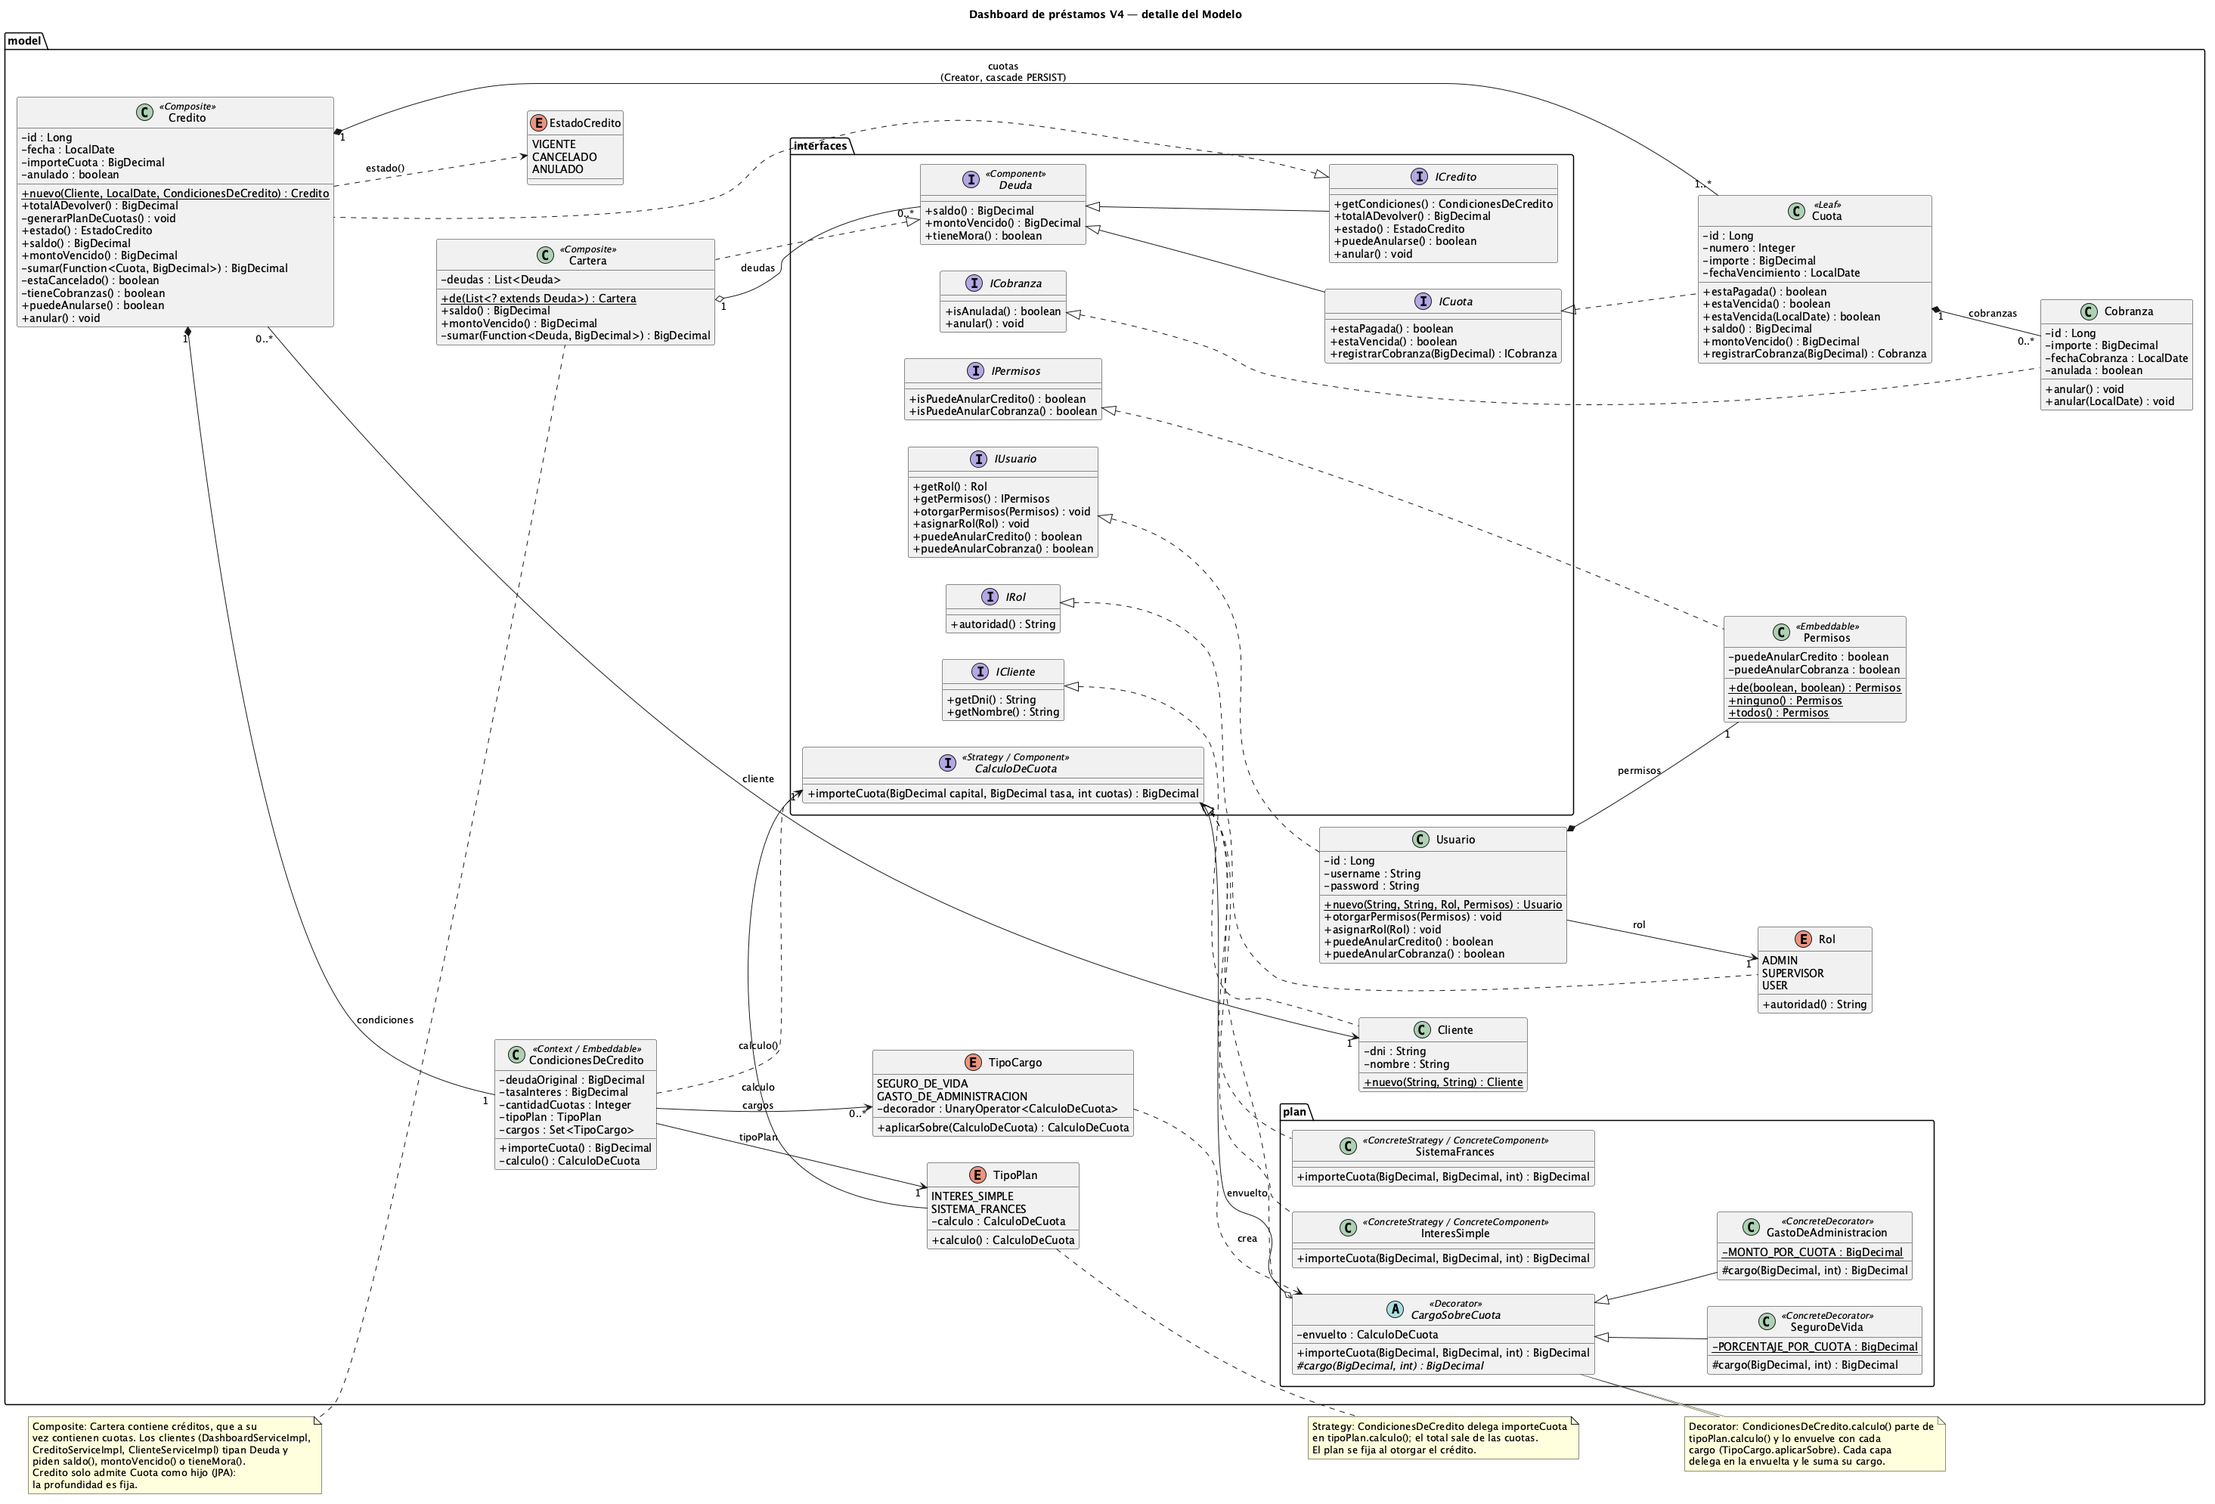
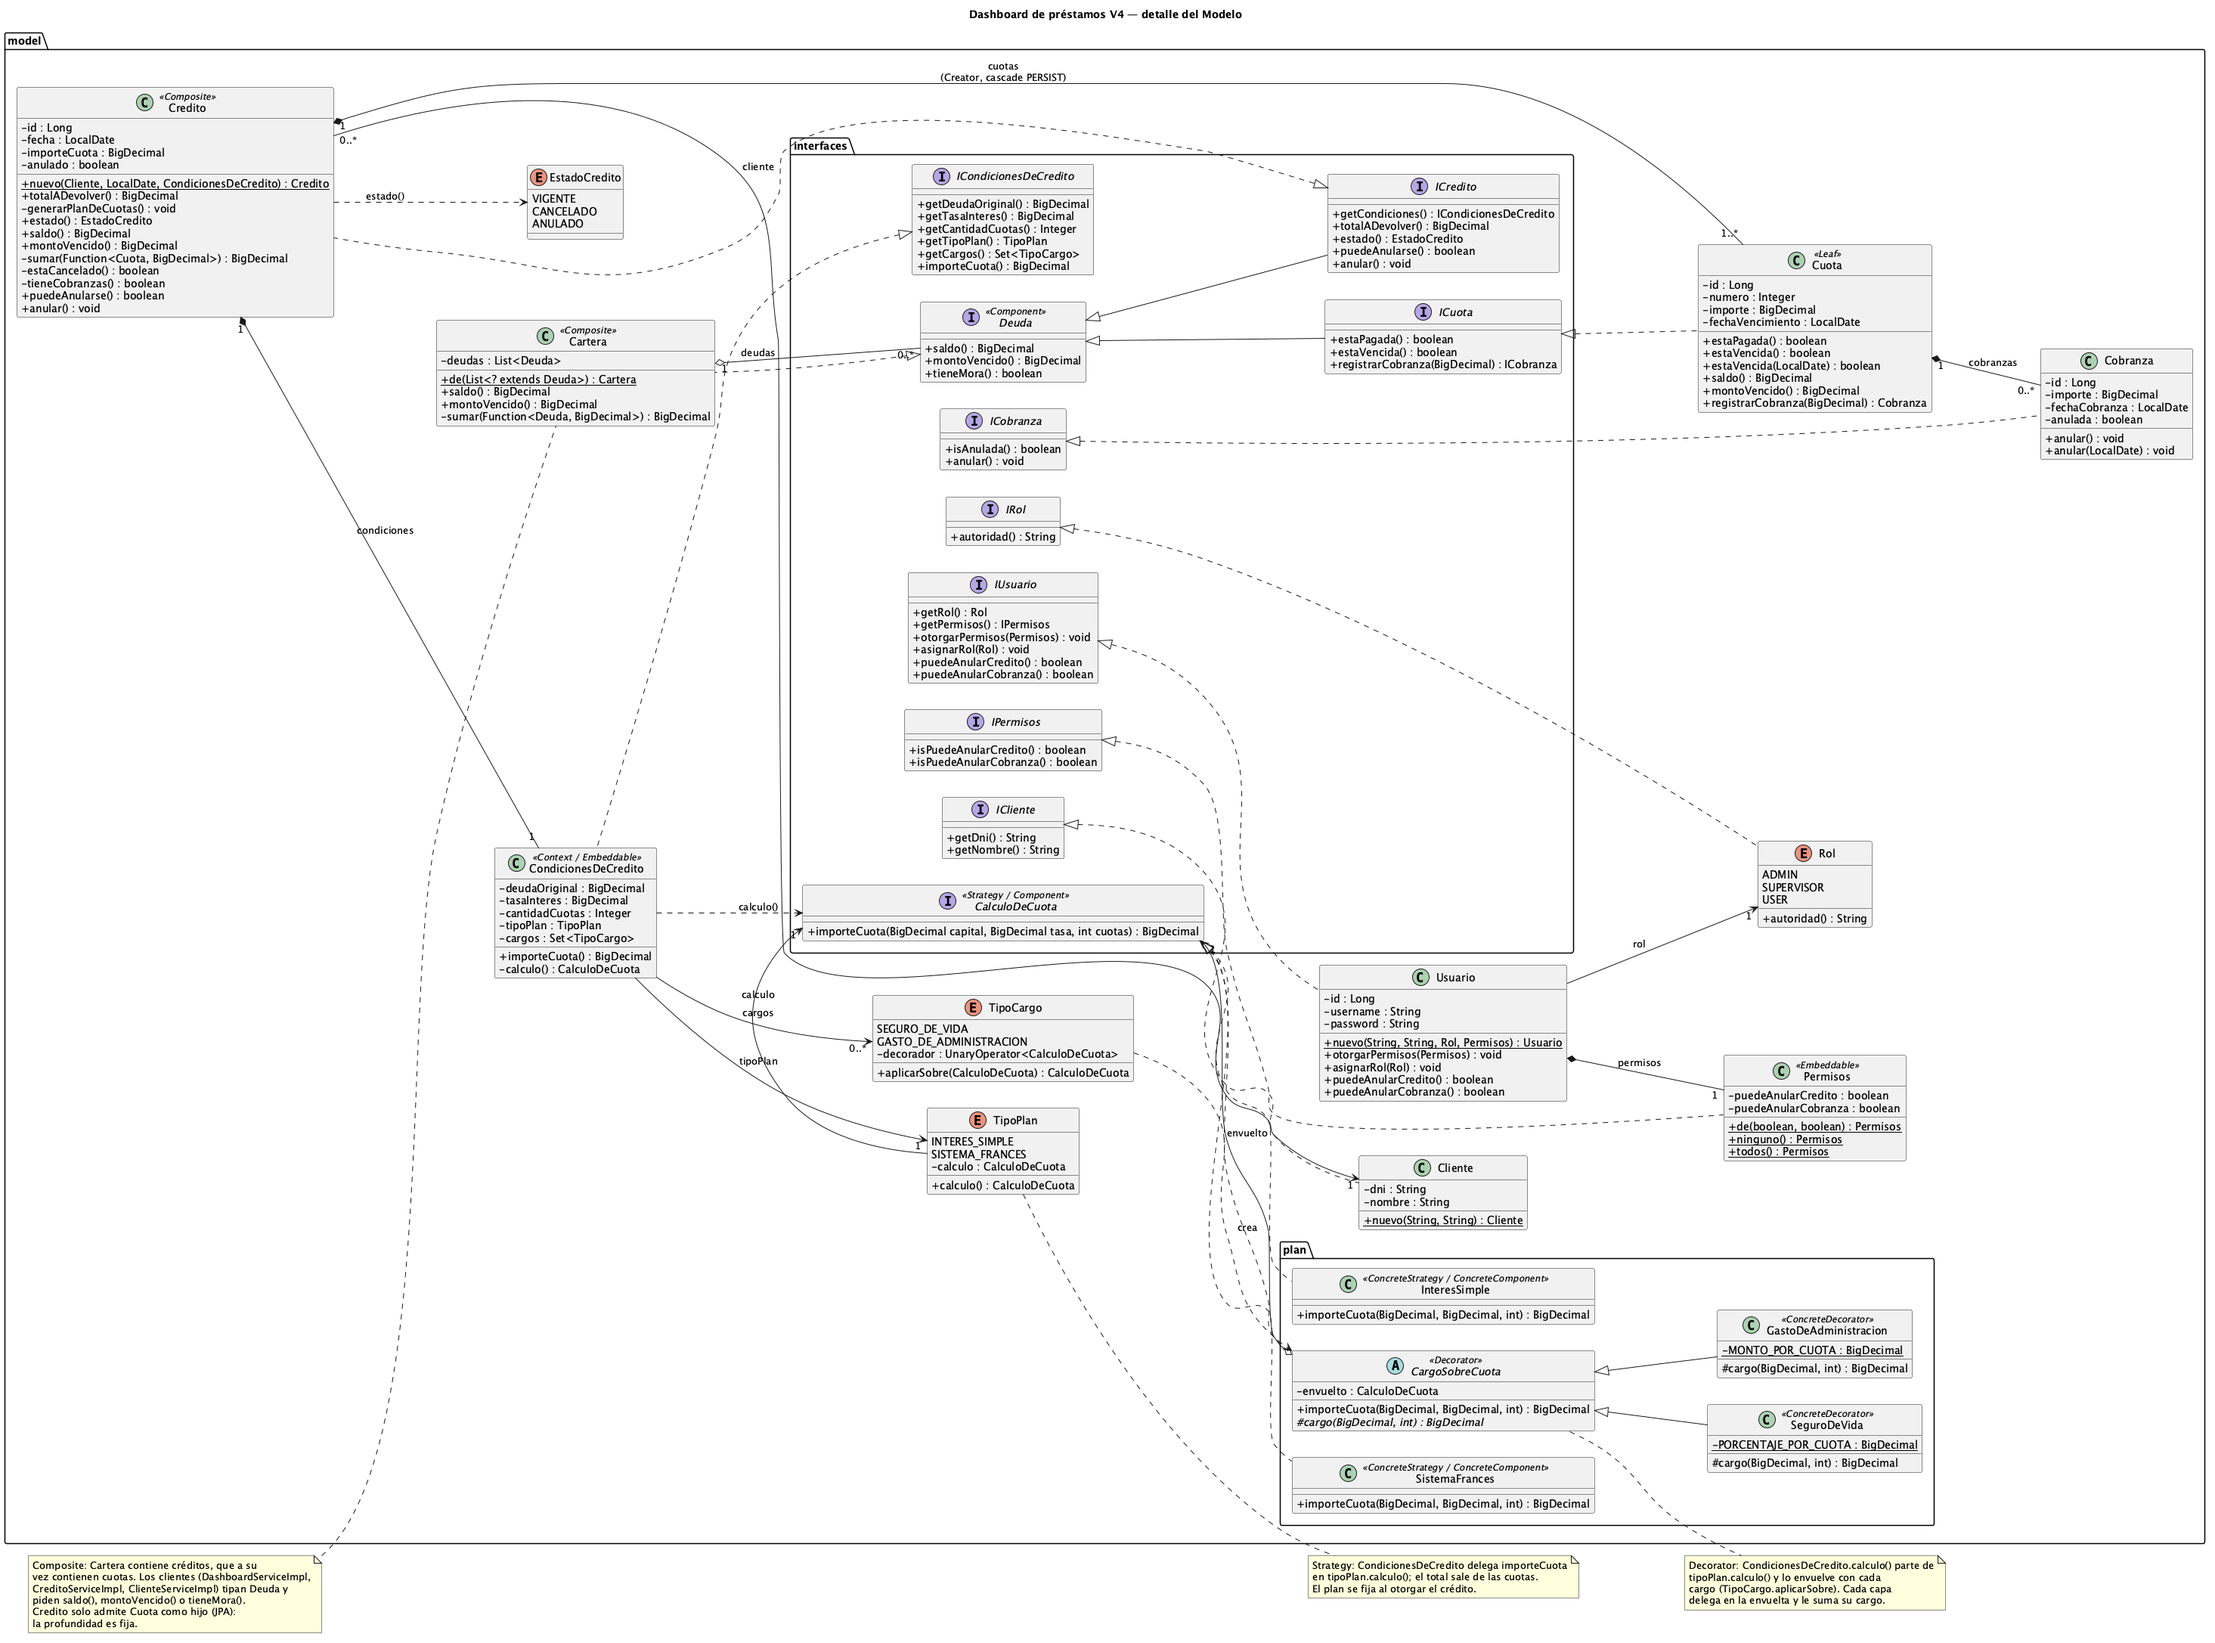
ICondicionesDeCredito: ICredito expone la interfaz de las condiciones, como IPermisos

diff --git a/backend/src/main/java/com/uade/tpejemplo/dto/response/CreditoResponse.java b/backend/src/main/java/com/uade/tpejemplo/dto/response/CreditoResponse.java
@@ -1,9 +1,9 @@
 package com.uade.tpejemplo.dto.response;
 
-import com.uade.tpejemplo.model.CondicionesDeCredito;
 import com.uade.tpejemplo.model.EstadoCredito;
 import com.uade.tpejemplo.model.TipoCargo;
 import com.uade.tpejemplo.model.TipoPlan;
+import com.uade.tpejemplo.model.interfaces.ICondicionesDeCredito;
 import com.uade.tpejemplo.model.interfaces.ICredito;
 import lombok.AccessLevel;
 import lombok.AllArgsConstructor;
@@ -38,7 +38,7 @@ public class CreditoResponse {
     private boolean puedeAnularse;
 
     public static CreditoResponse desde(ICredito credito) {
-        CondicionesDeCredito condiciones = credito.getCondiciones();
+        ICondicionesDeCredito condiciones = credito.getCondiciones();
         return CreditoResponse.builder()
             .id(credito.getId())
             .dniCliente(credito.getCliente().getDni())

diff --git a/backend/src/main/java/com/uade/tpejemplo/model/CondicionesDeCredito.java b/backend/src/main/java/com/uade/tpejemplo/model/CondicionesDeCredito.java
@@ -1,6 +1,7 @@
 package com.uade.tpejemplo.model;
 
 import com.uade.tpejemplo.model.interfaces.CalculoDeCuota;
+import com.uade.tpejemplo.model.interfaces.ICondicionesDeCredito;
 import jakarta.persistence.*;
 import jakarta.validation.constraints.Min;
 import jakarta.validation.constraints.NotNull;
@@ -18,7 +19,7 @@ import java.util.Set;
 @Embeddable
 @Getter
 @NoArgsConstructor(access = AccessLevel.PROTECTED)
-public class CondicionesDeCredito {
+public class CondicionesDeCredito implements ICondicionesDeCredito {
 
     @NotNull
     @Column(name = "deuda_original", nullable = false, precision = 12, scale = 2)

diff --git a/backend/src/main/java/com/uade/tpejemplo/model/interfaces/ICondicionesDeCredito.java b/backend/src/main/java/com/uade/tpejemplo/model/interfaces/ICondicionesDeCredito.java
@@ -1,0 +1,22 @@
+package com.uade.tpejemplo.model.interfaces;
+
+import com.uade.tpejemplo.model.TipoCargo;
+import com.uade.tpejemplo.model.TipoPlan;
+
+import java.math.BigDecimal;
+import java.util.Set;
+
+public interface ICondicionesDeCredito {
+
+    BigDecimal getDeudaOriginal();
+
+    BigDecimal getTasaInteres();
+
+    Integer getCantidadCuotas();
+
+    TipoPlan getTipoPlan();
+
+    Set<TipoCargo> getCargos();
+
+    BigDecimal importeCuota();
+}

diff --git a/backend/src/main/java/com/uade/tpejemplo/model/interfaces/ICredito.java b/backend/src/main/java/com/uade/tpejemplo/model/interfaces/ICredito.java
@@ -1,6 +1,5 @@
 package com.uade.tpejemplo.model.interfaces;
 
-import com.uade.tpejemplo.model.CondicionesDeCredito;
 import com.uade.tpejemplo.model.EstadoCredito;
 
 import java.math.BigDecimal;
@@ -15,7 +14,7 @@ public interface ICredito extends Deuda {
 
     LocalDate getFecha();
 
-    CondicionesDeCredito getCondiciones();
+    ICondicionesDeCredito getCondiciones();
 
     BigDecimal getImporteCuota();
 

diff --git a/docs/entrega/lista-mejoras.md b/docs/entrega/lista-mejoras.md
@@ -12,7 +12,7 @@ Rutas Java relativas a `backend/src/main/java/com/uade/tpejemplo/`. Reporte comp
 | M14 | Regla de mora: no se otorga un crédito a un cliente con cuotas vencidas (400). La decide el modelo: `Deuda.tieneMora()` | `model/interfaces/Deuda.java` `tieneMora`; `service/impl/CreditoServiceImpl.java` `crear`; test `backend/src/test/java/com/uade/tpejemplo/service/ReglaDeMoraTest.java` | Composite (segundo cliente) |
 | M15 | Deuda del cliente: `GET /api/clientes/{dni}/deuda` y saldo/vencido en la búsqueda por DNI (UC21) | `controller/ClienteController.java` `deuda`; `service/impl/ClienteServiceImpl.java` `deuda`; `dto/response/DeudaClienteResponse.java`; `frontend/src/pages/Clientes.jsx`, `frontend/src/api/clientes.js` `getDeudaCliente`; test `backend/src/test/java/com/uade/tpejemplo/service/DeudaClienteTest.java` | Composite (tercer cliente), MVC |
 | M16 | Cargos en el alta de crédito (casillas) y en la ficha | `frontend/src/pages/Creditos.jsx`; `frontend/src/utils/cargos.js` | Decorator (vista) |
-| M17 | `Credito` no era god class (alta cohesión) pero tenía tres olores: `nuevo` con 7 parámetros (Long Parameter List / Data Clump), tres responsabilidades (precio de la cuota, suma de deuda, ciclo de vida) y `estaCancelado`/`tieneCobranzas` públicos sin uso externo. Lo pactado al otorgar pasa a `CondicionesDeCredito` (`@Embeddable`, «Context» del Strategy), que calcula la cuota; `Credito.nuevo(cliente, fecha, condiciones)`; los dos métodos pasan a privados. Tabla `creditos` y JSON idénticos (DDL generado antes y después, byte a byte); `@Valid` sobre `condiciones` mantiene el `check (cantidad_cuotas>=1)`. Revierte BS5 y parte de D3 (`docs/backlog.md`). Descartado: State para el estado (O9) y sacar el plan de cuotas de `Credito` (Creator) | `model/CondicionesDeCredito.java` `importeCuota`, `calculo`; `model/Credito.java` `nuevo`, `estaCancelado`, `tieneCobranzas`; `model/interfaces/ICredito.java`; `dto/response/CreditoResponse.java` `desde`; `repository/CreditoRepository.java` `sumarDeudaOriginalNoAnulada` (`c.condiciones.deudaOriginal`) | **Extract Class**, Introduce Parameter Object (+ SRP, ISP, High Cohesion, Information Expert) |
+| M17 | `Credito` no era god class (alta cohesión) pero tenía tres olores: `nuevo` con 7 parámetros (Long Parameter List / Data Clump), tres responsabilidades (precio de la cuota, suma de deuda, ciclo de vida) y `estaCancelado`/`tieneCobranzas` públicos sin uso externo. Lo pactado al otorgar pasa a `CondicionesDeCredito` (`@Embeddable`, «Context» del Strategy), que calcula la cuota; `Credito.nuevo(cliente, fecha, condiciones)`; los dos métodos pasan a privados. Tabla `creditos` y JSON idénticos (DDL generado antes y después, byte a byte); `@Valid` sobre `condiciones` mantiene el `check (cantidad_cuotas>=1)`. Revierte BS5 y parte de D3 (`docs/backlog.md`). Descartado: State para el estado (O9) y sacar el plan de cuotas de `Credito` (Creator) | `model/CondicionesDeCredito.java` `importeCuota`, `calculo`; `model/interfaces/ICondicionesDeCredito.java` (como `IPermisos`); `model/Credito.java` `nuevo`, `estaCancelado`, `tieneCobranzas`; `model/interfaces/ICredito.java`; `dto/response/CreditoResponse.java` `desde`; `repository/CreditoRepository.java` `sumarDeudaOriginalNoAnulada` (`c.condiciones.deudaOriginal`) | **Extract Class**, Introduce Parameter Object (+ SRP, ISP, High Cohesion, Information Expert) |
 | H5 | Consultar un crédito guardado daba 500 (`GET /api/creditos/{id}`, `/api/creditos/cliente/{dni}`, `/api/creditos`). Lo detectó `verificar-cu.sh`: la respuesta recorría `Credito.cargos` (colección lazy) fuera de la transacción. Fix: se copian los cargos dentro de la transacción | `dto/response/CreditoResponse.java` `desde` (`Set.copyOf`); test `backend/src/test/java/com/uade/tpejemplo/service/CreditoConCargosTest.java` | Hallazgo corregido (LazyInitializationException) |
 | H6 | `"cargos":["SEGURO_DE_VIDA",null]` daba 500: `EnumSet.addAll` tira `NullPointerException` con un null. Lo detectó la revisión de la iteración; ahora 400, verificado con `verificar-cu.sh` ("UC07 cargo nulo") | `dto/request/CreditoRequest.java` (`Set<@NotNull TipoCargo>`); test `backend/src/test/java/com/uade/tpejemplo/controller/CodigosHttpTest.java` `cargoNuloDa400` | Hallazgo de la revisión corregido (validación en el borde) |
 | DER4 | DER v4: tabla `credito_cargos` (PK compuesta `id_credito`, `tipo_cargo`) y `rol` como enum | `docs/diagramas/der-v4.py` | Documentación |
